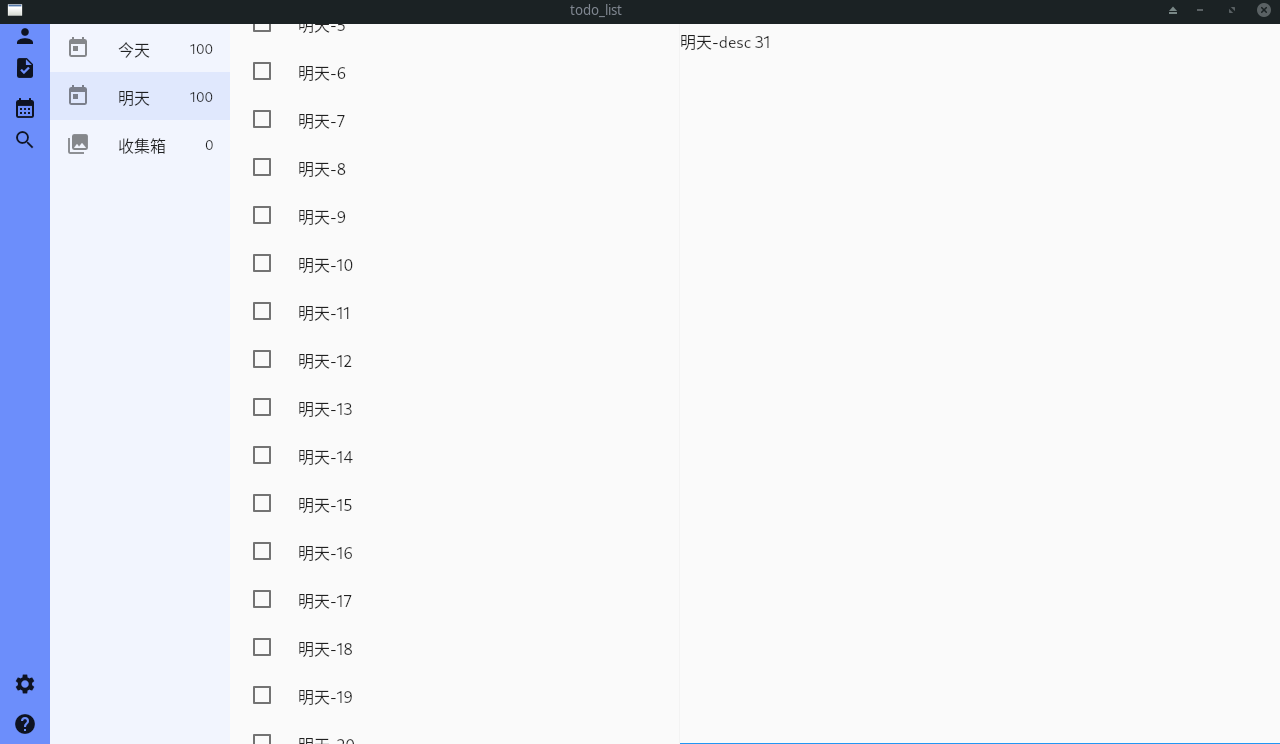
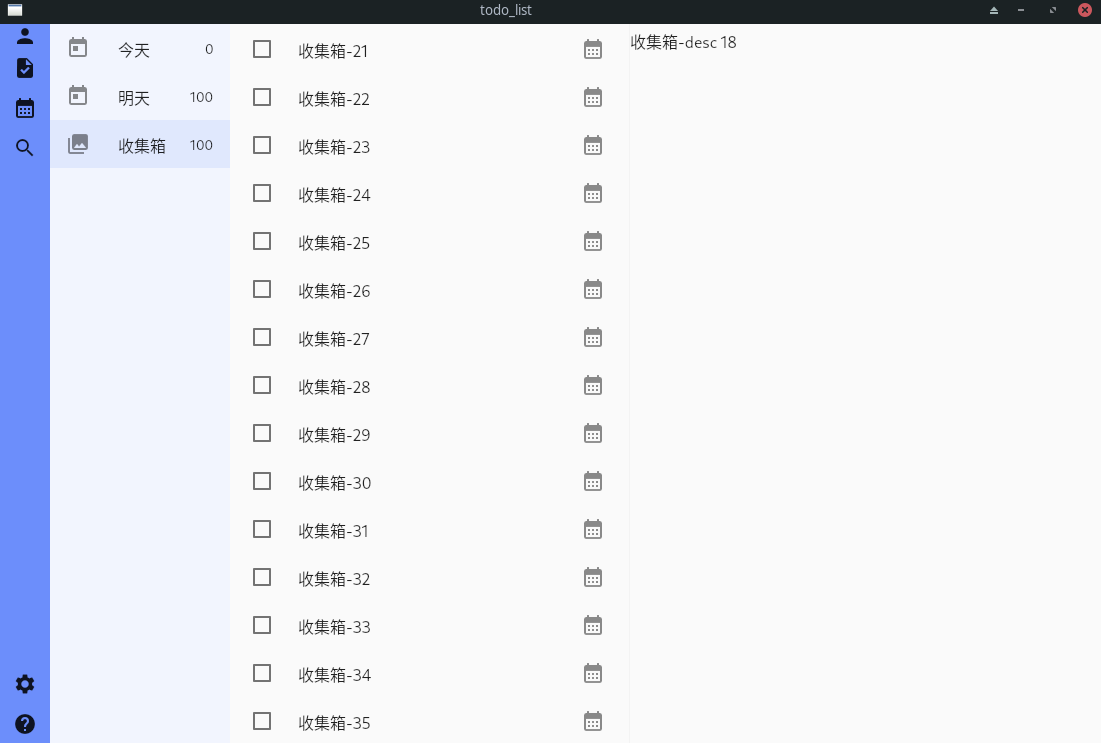
update

diff --git a/lib/widgets/todo_list.dart b/lib/widgets/todo_list.dart
@@ -65,7 +65,7 @@ class TodoListState extends State<TodoList> {
               border: Border(
                   right: BorderSide(
                       width: 1, color: Color.fromARGB(255, 243, 243, 243)))),
-          width: 450,
+          width: 400,
           child: ListView(
               children: widget.tasks
                   .map((e) => ListTile(

diff --git a/README.md b/README.md
@@ -1,18 +1,5 @@
 # todo_list
 
-A new Flutter project.
+模仿[滴答清单](https://dida365.com/),使用 flutter 写一个自己的 Todo List。
 
 ![demo](demo.png)
-## Getting Started
-
-This project is a starting point for a Flutter application.
-
-A few resources to get you started if this is your first Flutter project:
-
-- [Lab: Write your first Flutter app](https://docs.flutter.dev/get-started/codelab)
-- [Cookbook: Useful Flutter samples](https://docs.flutter.dev/cookbook)
-
-For help getting started with Flutter development, view the
-[online documentation](https://docs.flutter.dev/), which offers tutorials,
-samples, guidance on mobile development, and a full API reference.
-# todo-list
